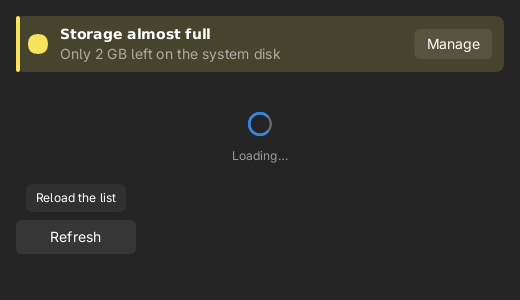
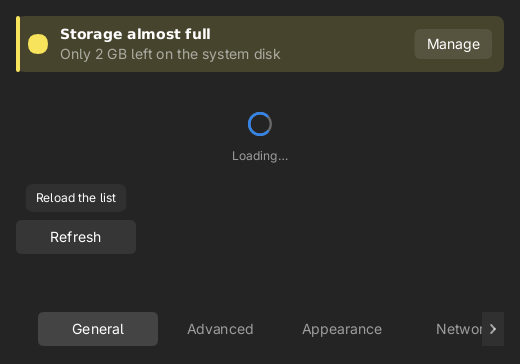
widgety: scroll/overflow w TabBar (przewijanie + przyciski na krawędziach)
- TabBar: pole scroll; content_width/max_scroll/is_overflowing/on_scroll/set_scroll,
  scroll_into_view (wybór zawsze widoczny), przyciski chevron (ScrollDir) na krawędziach
  gdy się nie mieści; rysowanie z clipem. max_scroll uwzględnia szerokość przycisków.
- ikony: chevron_left. Testy overflow (+3).
- przyklad widgets: pasek zakładek z przewijaniem.

diff --git a/crates/libluna-widgets/src/tab_bar.rs b/crates/libluna-widgets/src/tab_bar.rs
@@ -12,6 +12,16 @@ use libluna_render::TextEngine;
 use crate::ctx::PaintCtx;
 use crate::icon;
 
+/// Szerokość przycisku przewijania (chevron) na krawędzi paska.
+const SCROLL_W: f64 = 22.0;
+
+/// Kierunek przewijania paska zakładek.
+#[derive(Debug, Clone, Copy, PartialEq, Eq)]
+pub enum ScrollDir {
+    Left,
+    Right,
+}
+
 /// Pojedyncza zakładka.
 #[derive(Debug, Clone, PartialEq)]
 pub struct Tab {
@@ -42,6 +52,8 @@ pub struct TabBar {
     selected: usize,
     hovered: Option<usize>,
     expand: bool,
+    /// Przesunięcie poziome (gdy zakładki się nie mieszczą).
+    scroll: f64,
 }
 
 impl TabBar {
@@ -56,6 +68,7 @@ impl TabBar {
             selected: 0,
             hovered: None,
             expand: true,
+            scroll: 0.0,
         }
     }
 
@@ -66,6 +79,7 @@ impl TabBar {
             selected: 0,
             hovered: None,
             expand: true,
+            scroll: 0.0,
         }
     }
 
@@ -111,17 +125,16 @@ impl TabBar {
         theme.metrics.tabs.height
     }
 
-    /// Prostokąty kolejnych zakładek (wyrównane do środka paska).
-    pub fn segments(&self, rect: Rect, text: &TextEngine, theme: &Theme) -> Vec<Rect> {
+    /// Szerokości zakładek (bez odstępów) dla zadanego prostokąta.
+    fn widths(&self, rect: Rect, text: &TextEngine, theme: &Theme) -> Vec<f64> {
         let m = theme.metrics.tabs;
         let n = self.tabs.len();
-        if n == 0 || rect.width() <= 0.0 {
+        if n == 0 {
             return Vec::new();
         }
-        let gaps = m.gap * (n as f64 - 1.0);
-        let avail = (rect.width() - gaps).max(0.0);
-
-        let widths: Vec<f64> = if self.expand {
+        if self.expand {
+            let gaps = m.gap * (n as f64 - 1.0);
+            let avail = (rect.width() - gaps).max(0.0);
             vec![(avail / n as f64).clamp(m.min_width, m.max_width); n]
         } else {
             self.tabs
@@ -137,10 +150,124 @@ impl TabBar {
                     w.clamp(m.min_width, m.max_width)
                 })
                 .collect()
-        };
+        }
+    }
 
+    /// Łączna szerokość zawartości (zakładki + odstępy).
+    pub fn content_width(&self, rect: Rect, text: &TextEngine, theme: &Theme) -> f64 {
+        let m = theme.metrics.tabs;
+        let n = self.tabs.len();
+        if n == 0 {
+            return 0.0;
+        }
+        self.widths(rect, text, theme).iter().sum::<f64>() + m.gap * (n as f64 - 1.0)
+    }
+
+    /// Maksymalne przewinięcie (0, gdy wszystko się mieści).
+    pub fn max_scroll(&self, rect: Rect, text: &TextEngine, theme: &Theme) -> f64 {
+        let content = self.content_width(rect, text, theme);
+        // Gdy się nie mieści, po bokach są przyciski przewijania — one zawężają widok.
+        let inset = if content > rect.width() {
+            SCROLL_W
+        } else {
+            0.0
+        };
+        let visible = (rect.width() - 2.0 * inset).max(0.0);
+        (content - visible).max(0.0)
+    }
+
+    /// Czy zakładki nie mieszczą się w pasku (trzeba przewijać).
+    pub fn is_overflowing(&self, rect: Rect, text: &TextEngine, theme: &Theme) -> bool {
+        self.max_scroll(rect, text, theme) > 0.5
+    }
+
+    pub fn scroll(&self) -> f64 {
+        self.scroll
+    }
+
+    /// Ustawia przewinięcie (przycięte do zakresu).
+    pub fn set_scroll(&mut self, scroll: f64, rect: Rect, text: &TextEngine, theme: &Theme) {
+        self.scroll = scroll.clamp(0.0, self.max_scroll(rect, text, theme));
+    }
+
+    /// Przewija o `dx`; zwraca `true`, jeśli zawartość da się przewinąć.
+    pub fn on_scroll(&mut self, dx: f64, rect: Rect, text: &TextEngine, theme: &Theme) -> bool {
+        if !self.is_overflowing(rect, text, theme) {
+            return false;
+        }
+        self.set_scroll(self.scroll + dx, rect, text, theme);
+        true
+    }
+
+    /// Przewija tak, aby zakładka `index` była w pełni widoczna.
+    pub fn scroll_into_view(&mut self, index: usize, rect: Rect, text: &TextEngine, theme: &Theme) {
+        let segs = self.segments(rect, text, theme);
+        let Some(seg) = segs.get(index).copied() else {
+            return;
+        };
+        let inset = if self.is_overflowing(rect, text, theme) {
+            SCROLL_W
+        } else {
+            0.0
+        };
+        let left = rect.x() + inset;
+        let right = rect.right() - inset;
+        if seg.x() < left {
+            self.set_scroll(self.scroll - (left - seg.x()), rect, text, theme);
+        } else if seg.right() > right {
+            self.set_scroll(self.scroll + (seg.right() - right), rect, text, theme);
+        }
+    }
+
+    /// Prostokąt przycisku przewijania przy danej krawędzi.
+    fn scroll_button(&self, rect: Rect, dir: ScrollDir) -> Rect {
+        let x = match dir {
+            ScrollDir::Left => rect.x(),
+            ScrollDir::Right => rect.right() - SCROLL_W,
+        };
+        Rect::from_xywh(x, rect.y(), SCROLL_W, rect.height())
+    }
+
+    /// Czy punkt trafia w przycisk przewijania (tylko gdy jest co przewijać w tę stronę).
+    pub fn scroll_dir_at(
+        &self,
+        rect: Rect,
+        text: &TextEngine,
+        theme: &Theme,
+        p: Point,
+    ) -> Option<ScrollDir> {
+        if !self.is_overflowing(rect, text, theme) {
+            return None;
+        }
+        let left = self.scroll_button(rect, ScrollDir::Left);
+        let right = self.scroll_button(rect, ScrollDir::Right);
+        if self.scroll > 0.0 && left.contains(p) {
+            Some(ScrollDir::Left)
+        } else if self.scroll < self.max_scroll(rect, text, theme) - 0.5 && right.contains(p) {
+            Some(ScrollDir::Right)
+        } else {
+            None
+        }
+    }
+
+    /// Prostokąty kolejnych zakładek (z uwzględnieniem przewijania).
+    pub fn segments(&self, rect: Rect, text: &TextEngine, theme: &Theme) -> Vec<Rect> {
+        let m = theme.metrics.tabs;
+        let n = self.tabs.len();
+        if n == 0 || rect.width() <= 0.0 {
+            return Vec::new();
+        }
+        let widths = self.widths(rect, text, theme);
+        let gaps = m.gap * (n as f64 - 1.0);
         let total: f64 = widths.iter().sum::<f64>() + gaps;
-        let mut x = rect.x() + ((rect.width() - total) / 2.0).max(0.0);
+        let overflowing = total > rect.width();
+        let inset = if overflowing { SCROLL_W } else { 0.0 };
+        let avail = (rect.width() - 2.0 * inset).max(0.0);
+        let mut x = if overflowing {
+            rect.x() + inset - self.scroll
+        } else {
+            rect.x() + inset + ((avail - total) / 2.0).max(0.0)
+        };
         let mut out = Vec::with_capacity(n);
         for w in widths {
             out.push(Rect::from_xywh(x, rect.y(), w, rect.height()));
@@ -189,13 +316,14 @@ impl TabBar {
         match self.index_at(rect, text, theme, p) {
             Some(i) if i != self.selected => {
                 self.selected = i;
+                self.scroll_into_view(i, rect, text, theme);
                 true
             }
             _ => false,
         }
     }
 
-    /// Rysuje pasek zakładek w prostokącie `rect`.
+    /// Rysuje pasek zakładek w prostokącie `rect` (z przycinaniem i przewijaniem).
     pub fn paint(&self, ctx: &mut PaintCtx, rect: Rect) {
         let theme = *ctx.theme;
         let colors = theme.colors;
@@ -203,7 +331,9 @@ impl TabBar {
         let size = theme.typography.body.size;
         let m = theme.metrics.tabs;
         let text = ctx.text;
+        let overflow = self.is_overflowing(rect, text, &theme);
 
+        ctx.scene.push_clip(rect);
         for (i, seg) in self.segments(rect, text, &theme).iter().enumerate() {
             let tab = &self.tabs[i];
             let selected = i == self.selected;
@@ -242,6 +372,31 @@ impl TabBar {
                     m.close * 0.28,
                 );
             }
+        }
+        ctx.scene.pop_clip();
+
+        // Przyciski przewijania na krawędziach, gdy zakładki się nie mieszczą.
+        if overflow {
+            let max = self.max_scroll(rect, text, &theme);
+            if self.scroll > 0.0 {
+                self.paint_scroll_button(ctx, rect, ScrollDir::Left);
+            }
+            if self.scroll < max - 0.5 {
+                self.paint_scroll_button(ctx, rect, ScrollDir::Right);
+            }
+        }
+    }
+
+    fn paint_scroll_button(&self, ctx: &mut PaintCtx, rect: Rect, dir: ScrollDir) {
+        let theme = *ctx.theme;
+        let colors = theme.colors;
+        let r = self.scroll_button(rect, dir);
+        // Tło zasłaniające przewinięte zakładki + chevron.
+        ctx.scene.fill_rect(r, colors.card_bg);
+        let center = r.center();
+        match dir {
+            ScrollDir::Left => icon::chevron_left(ctx, colors.dim_text, center, 4.0, 2.0),
+            ScrollDir::Right => icon::chevron_right(ctx, colors.dim_text, center, 4.0, 2.0),
         }
     }
 }
@@ -335,5 +490,60 @@ mod tests {
             assert!(s.width() >= m.min_width - 1e-9);
             assert!(s.width() <= m.max_width + 1e-9);
         }
+    }
+
+    #[test]
+    fn overflow_scrolls_and_clamps() {
+        let text = TextEngine::system();
+        let theme = theme();
+        let rect = Rect::from_xywh(0.0, 0.0, 200.0, 34.0);
+        let mut bar = TabBar::new(["A", "B", "C", "D", "E", "F"]);
+        assert!(bar.is_overflowing(rect, &text, &theme));
+        let max = bar.max_scroll(rect, &text, &theme);
+        assert!(max > 0.0);
+
+        assert!(bar.on_scroll(30.0, rect, &text, &theme));
+        assert!((bar.scroll() - 30.0).abs() < 1e-9);
+        bar.on_scroll(9999.0, rect, &text, &theme);
+        assert!((bar.scroll() - max).abs() < 1e-9);
+        bar.on_scroll(-9999.0, rect, &text, &theme);
+        assert_eq!(bar.scroll(), 0.0);
+    }
+
+    #[test]
+    fn scroll_into_view_reveals_last_tab() {
+        let text = TextEngine::system();
+        let theme = theme();
+        let rect = Rect::from_xywh(0.0, 0.0, 200.0, 34.0);
+        let mut bar = TabBar::new(["A", "B", "C", "D", "E", "F"]);
+        bar.scroll_into_view(5, rect, &text, &theme);
+        let segs = bar.segments(rect, &text, &theme);
+        assert!(segs[5].right() <= rect.right() - SCROLL_W + 1e-6);
+        assert!(segs[5].x() >= rect.x() + SCROLL_W - 1e-6);
+    }
+
+    #[test]
+    fn scroll_buttons_hit_only_when_scrollable() {
+        let text = TextEngine::system();
+        let theme = theme();
+        let narrow = Rect::from_xywh(0.0, 0.0, 200.0, 34.0);
+        let bar = TabBar::new(["A", "B", "C", "D", "E", "F"]);
+        let left = bar.scroll_button(narrow, ScrollDir::Left);
+        let right = bar.scroll_button(narrow, ScrollDir::Right);
+        // Na starcie: lewy nieaktywny, prawy aktywny.
+        assert_eq!(
+            bar.scroll_dir_at(narrow, &text, &theme, left.center()),
+            None
+        );
+        assert_eq!(
+            bar.scroll_dir_at(narrow, &text, &theme, right.center()),
+            Some(ScrollDir::Right)
+        );
+        // Gdy wszystko się mieści — brak przycisków.
+        let fits = TabBar::new(["A"]);
+        assert_eq!(
+            fits.scroll_dir_at(rect(), &text, &theme, rect().center()),
+            None
+        );
     }
 }

diff --git a/apps/luna-demo/src/bin/widgets.rs b/apps/luna-demo/src/bin/widgets.rs
@@ -8,10 +8,10 @@ use std::error::Error;
 use libluna_core::style::weight;
 use libluna_core::{Rect, Size, Theme};
 use libluna_render::{Scene, SoftwareRenderer, TextEngine};
-use libluna_widgets::{Banner, BannerKind, Button, PaintCtx, Spinner, Tooltip};
+use libluna_widgets::{Banner, BannerKind, Button, PaintCtx, Spinner, TabBar, Tooltip};
 
 const W: u32 = 520;
-const H: u32 = 300;
+const H: u32 = 364;
 
 fn main() -> Result<(), Box<dyn Error>> {
     let theme = Theme::dark();
@@ -61,6 +61,23 @@ fn main() -> Result<(), Box<dyn Error>> {
         weight::NORMAL,
         theme.colors.dim_text,
     );
+
+    // Pasek zakładek z przewijaniem (overflow) — 6 zakładek w wąskim pasku.
+    let tabs = TabBar::new([
+        "General",
+        "Advanced",
+        "Appearance",
+        "Network",
+        "System",
+        "About",
+    ]);
+    let tabs_rect = Rect::from_xywh(
+        16.0,
+        size.height - 52.0,
+        size.width - 32.0,
+        tabs.height(&theme),
+    );
+    tabs.paint(&mut paint, tabs_rect);
 
     let mut renderer = SoftwareRenderer::new(W, H);
     renderer.draw(&scene, 1.0, theme.colors.window_bg);

diff --git a/crates/libluna-widgets/src/icon.rs b/crates/libluna-widgets/src/icon.rs
@@ -36,6 +36,22 @@ pub fn chevron_right(paint: &mut PaintCtx, color: Color, center: Point, size: f6
     );
 }
 
+/// Strzałka w lewo (chevron); środek w `center`, rozpiętość `size`, grubość `width`.
+pub fn chevron_left(paint: &mut PaintCtx, color: Color, center: Point, size: f64, width: f64) {
+    paint.scene.stroke_line(
+        Point::new(center.x + size * 0.45, center.y - size),
+        Point::new(center.x - size * 0.45, center.y),
+        width,
+        color,
+    );
+    paint.scene.stroke_line(
+        Point::new(center.x - size * 0.45, center.y),
+        Point::new(center.x + size * 0.45, center.y + size),
+        width,
+        color,
+    );
+}
+
 /// Lupka (wyszukiwanie); środek w `center`, bok `size`.
 pub fn search(paint: &mut PaintCtx, color: Color, center: Point, size: f64) {
     let r = size * 0.34;

diff --git a/crates/libluna-widgets/src/lib.rs b/crates/libluna-widgets/src/lib.rs
@@ -100,7 +100,7 @@ pub use spinner::Spinner;
 pub use status_page::{StatusIcon, StatusPage, StatusRects};
 pub use stepper::{Stepper, StepperSide};
 pub use switch::Switch;
-pub use tab_bar::{Tab, TabBar};
+pub use tab_bar::{ScrollDir, Tab, TabBar};
 pub use tab_view::TabView;
 pub use toast::Toast;
 pub use tooltip::Tooltip;
